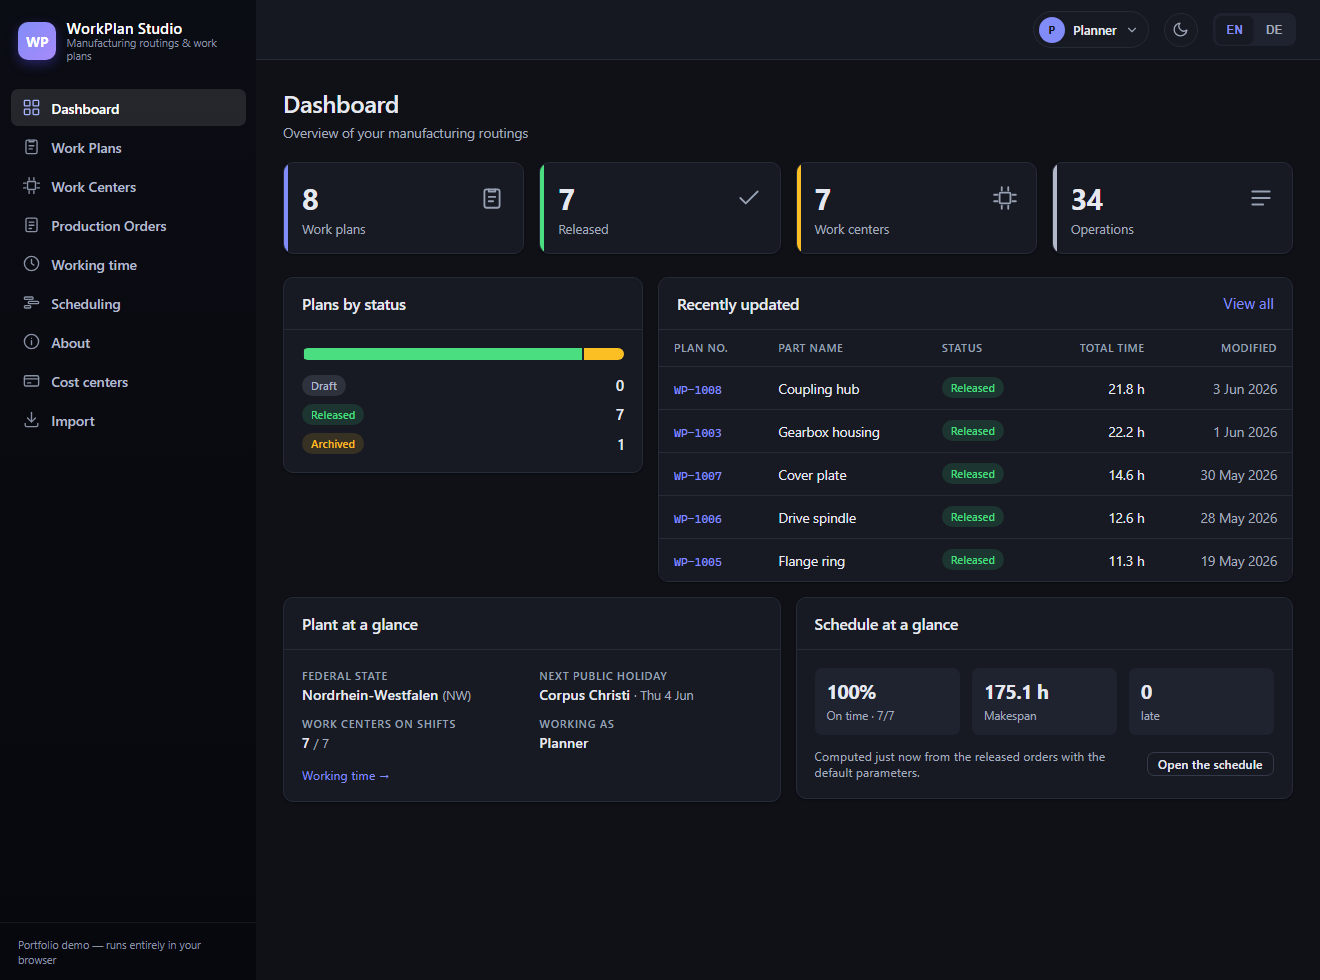
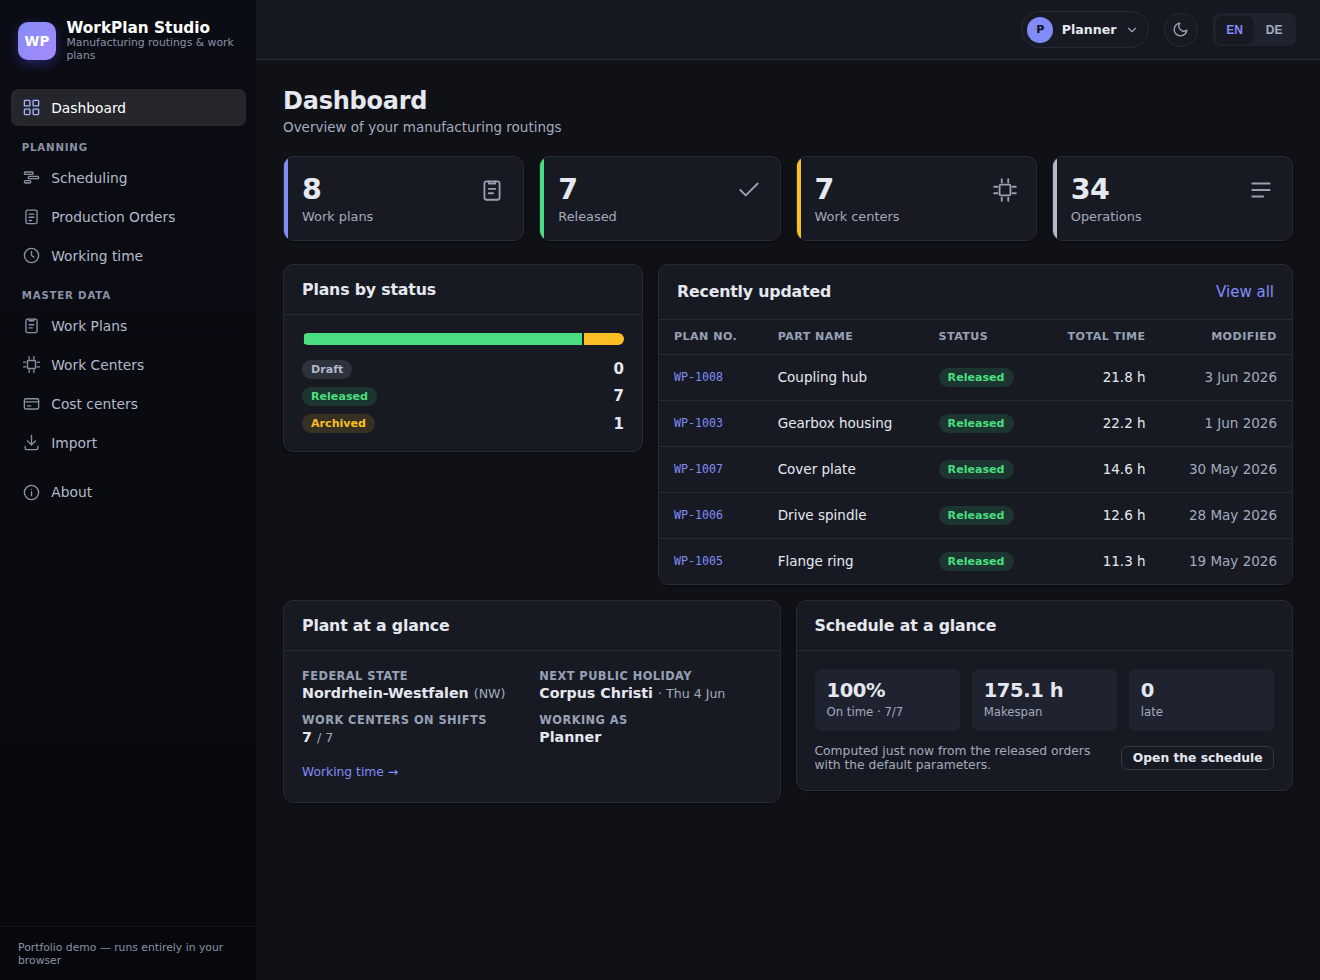
Retake every README screenshot, and capture all of them from now on (#106)
* Capture every screenshot the README shows, not four of them

The capture test produced the schedule pictures only. The dashboard, working
time and both chat pictures still showed the navigation before it was grouped
and the optimality proof as a link-sized button - the README's first images
describing an application that no longer exists. Now the test captures all
nine, and the workflow uploads all nine.

* Retake every README screenshot, and the test counts with them

Captured on Linux by the E2E workflow's capture_doc_images input (run
43996563171): the dashboard in both themes, working time, the schedule dark
and on a phone, the chat in English and German, and the on-time/late pair.
They now show the grouped navigation and the optimality card.

Web suite 1 009 -> 1 011 (EditableAreaWhileAuthorizingTests), measured on
main; 1 807 in all.

---------

diff --git a/tests/WorkPlanStudio.E2E/DocumentationImagesTests.cs b/tests/WorkPlanStudio.E2E/DocumentationImagesTests.cs
@@ -42,7 +42,7 @@ public sealed class DocumentationImagesTests : IClassFixture<PlaywrightFixture>
     private static (int Width, int Height) Desktop => (1320, 980);
     private static (int Width, int Height) Phone => (390, 844);
 
-    private async Task<IPage> OpenAsync((int Width, int Height) viewport, string theme)
+    private async Task<IPage> OpenAsync((int Width, int Height) viewport, string theme, string culture = "en-US")
     {
         var context = await _fixture.Browser.NewContextAsync(new BrowserNewContextOptions
         {
@@ -59,21 +59,53 @@ public sealed class DocumentationImagesTests : IClassFixture<PlaywrightFixture>
         var page = await context.NewPageAsync();
         await page.GotoAsync($"{_fixture.BaseUrl}/");
         await page.EvaluateAsync("t => localStorage.setItem('workplanstudio.settings.theme', t)", theme);
+        await page.EvaluateAsync("c => localStorage.setItem('BlazorCulture', c)", culture);
         return page;
     }
 
-    private static async Task SaveAsync(IPage page, string relativePath)
+    private static string Target(string relativePath)
     {
         var target = Path.Combine(DocsDirectory, relativePath);
         Directory.CreateDirectory(Path.GetDirectoryName(target)!);
-        await page.ScreenshotAsync(new()
+        Xunit.TestContext.Current.SendDiagnosticMessage($"documentation image written: {target}");
+        return target;
+    }
+
+    private static Task SaveAsync(IPage page, string relativePath, bool fullPage = true) =>
+        page.ScreenshotAsync(new()
         {
-            Path = target,
-            FullPage = true,
+            Path = Target(relativePath),
+            FullPage = fullPage,
             Animations = ScreenshotAnimations.Disabled,
             Caret = ScreenshotCaret.Hide
         });
-        Xunit.TestContext.Current.SendDiagnosticMessage($"documentation image written: {target}");
+
+    private static Task SaveAsync(ILocator element, string relativePath) =>
+        element.ScreenshotAsync(new()
+        {
+            Path = Target(relativePath),
+            Animations = ScreenshotAnimations.Disabled,
+            Caret = ScreenshotCaret.Hide
+        });
+
+    /// <summary>Opens a route, waits for the live page to settle, and returns it.</summary>
+    private async Task<IPage> SettledAtAsync((int Width, int Height) viewport, string theme, string route, string culture = "en-US")
+    {
+        var page = await OpenAsync(viewport, theme, culture);
+        await AppReady.GotoAsync(page, $"{_fixture.BaseUrl}{route}");
+        await page.WaitForSelectorAsync(AppReady.ContentSelector, new() { Timeout = AppReady.BootTimeoutMilliseconds });
+        await AppReady.SettledAsync(page);
+        return page;
+    }
+
+    /// <summary>The schedule's assistant card after one suggested question has been answered on the device.</summary>
+    private async Task CaptureChatAsync(string culture, string relativePath)
+    {
+        var page = await SettledAtAsync(Desktop, "light", "/schedule", culture);
+        await page.ClickAsync(".chat-suggestions .chip");
+        await page.WaitForSelectorAsync(".chat-turn.assistant");
+        await AppReady.SettledAsync(page);
+        await SaveAsync(page.Locator(".assistant-card"), relativePath);
     }
 
     [Fact]
@@ -99,6 +131,17 @@ public sealed class DocumentationImagesTests : IClassFixture<PlaywrightFixture>
         await phoneSchedule.GotoAsync();
         await AppReady.SettledAsync(phone);
         await SaveAsync(phone, Path.Combine("images", "schedule-mobile.png"));
+
+        // --- the dashboard, both themes, the first screen a visitor gets ---
+        await SaveAsync(await SettledAtAsync(Desktop, "light", "/"), Path.Combine("images", "dashboard-light.png"), fullPage: false);
+        await SaveAsync(await SettledAtAsync(Desktop, "dark", "/"), Path.Combine("images", "dashboard-dark.png"), fullPage: false);
+
+        // --- working time: the rules, the averaging, the holidays ---
+        await SaveAsync(await SettledAtAsync(Desktop, "light", "/working-time"), Path.Combine("images", "working-time-light.png"));
+
+        // --- the chat, answered on the device, in both languages ---
+        await CaptureChatAsync("en-US", Path.Combine("images", "chat-en.png"));
+        await CaptureChatAsync("de-DE", Path.Combine("images", "chat-de.png"));
 
         // --- the pair the README uses to show one parameter changing everything ---
         //

diff --git a/README.de.md b/README.de.md
@@ -185,7 +185,7 @@ Die Kopfleiste lässt Sie **Planer** (alles), **Meister** (Aufträge freigeben u
 
 ## Entwicklungspraxis — gemessen, nicht behauptet
 
-- **1 805 Unit- und Integrationstests in fünf Projekten, dazu 102 Browsertests**: Unit, eigenschaftsbasiert (CsCheck), bewiesene Optimalität gegen einen unabhängigen Löser, Architektur, Leistungsbudgets, Datentests mit echtem SQLite samt Schemaaufwertung, Berechtigungen als per Reflexion ermittelte geschlossene Menge, bUnit-Komponenten, Anbieter-Clients gegen einen feindlichen Stub-Transport, HTTP-Integrationstests gegen das Backend, Byte-Tests der PDF- und xlsx-Writer, Playwright-Abläufe in beiden Sprachen, **null axe-Verstöße auf jeder Route in hell, dunkel und auf Deutsch** (der WCAG-2.x-A/AA-Regelsatz, also etwa ein Drittel des Standards) und **Bildvergleich** gegen Pixel-Baselines. [docs/TESTING.de.md](docs/TESTING.de.md).
+- **1 807 Unit- und Integrationstests in fünf Projekten, dazu 102 Browsertests**: Unit, eigenschaftsbasiert (CsCheck), bewiesene Optimalität gegen einen unabhängigen Löser, Architektur, Leistungsbudgets, Datentests mit echtem SQLite samt Schemaaufwertung, Berechtigungen als per Reflexion ermittelte geschlossene Menge, bUnit-Komponenten, Anbieter-Clients gegen einen feindlichen Stub-Transport, HTTP-Integrationstests gegen das Backend, Byte-Tests der PDF- und xlsx-Writer, Playwright-Abläufe in beiden Sprachen, **null axe-Verstöße auf jeder Route in hell, dunkel und auf Deutsch** (der WCAG-2.x-A/AA-Regelsatz, also etwa ein Drittel des Standards) und **Bildvergleich** gegen Pixel-Baselines. [docs/TESTING.de.md](docs/TESTING.de.md).
 - **Abdeckung je Assembly in der CI abgesichert, und die Schwelle selbst ebenso** — der Build scheitert, wenn eine Assembly unter ihre Schwelle fällt, und ebenso, wenn die Abdeckung **mehr als drei Punkte darüber** steigt: eine Schwelle, der die Abdeckung davongelaufen ist, verteidigt nichts mehr und wird nie rot dabei. Die Schwellen stehen an genau einer Stelle, in den `GATE_*`-Variablen von [`ci.yml`](.github/workflows/ci.yml), und liegen ein bis zwei Punkte unter dem Gemessenen. **Was gemessen wurde, steht auf den Badges oben**, erzeugt bei jeder Auslieferung aus demselben Lauf — sie *sind* die Zahl und nicht eine Kopie davon. Dieser Punkt trug die sechs Werte früher von Hand; als die Drift-Prüfung entstand, waren zwei davon drei Punkte hinter der Abdeckung zurück, die sie bewachen sollten.
 - **Auslieferung erst nach allem** — die Testmatrix mit ihren Abdeckungsschwellen *und* die Browser-Suite müssen bestehen, bevor GitHub Pages aktualisiert wird, und der Job, der fremden Testcode ausführt, hält keine Auslieferungsrechte.
 - **Leistung gemessen, auch dort, wo es unschmeichelhaft ist** — BenchmarkDotNet über die Bibliotheken, Stolperdrähte auf die Uhr und Lighthouse CI auf der veröffentlichten Seite, die den Seitenaufbau mit **36 / 100** bewertete, bis der erste Bildschirm beim Build gerendert wurde, und jetzt auf jeder gemessenen Seite **70** vergibt, Barrierefreiheit, Best Practices und SEO 100. Alles, samt der Maschine, auf der es gemessen wurde, steht in [docs/PERFORMANCE.de.md](docs/PERFORMANCE.de.md).

diff --git a/docs/TESTING.de.md b/docs/TESTING.de.md
@@ -33,12 +33,12 @@ Die Zahlen wurden auf diesem Stand durch Ausführen jeder Suite gemessen; siehe
 | --- | --- | --: | --- | :---: | --- |
 | Engine: Unit, Property, Optimalität, exakter Löser, Architektur, Budgets | `tests/WorkPlanStudio.Scheduling.Tests` | **294** | Determinismus, Zulässigkeit, Regeln, Kalender und Sperrzeiten, Eingabeprüfung, allokationsfreie Bewertung, die Optimalitätsstudie über zwanzig Instanzen, das LP-Modell, ein abhängigkeitsfreier Kern | nein | ~5 s |
 | Arbeitszeit: Unit, Property, Architektur, Budgets | `tests/WorkPlanStudio.WorkingTime.Tests` | **255** | Feiertage aller 16 Länder über 1990–2200, Schichtmodelle, jede ArbZG-Vorschrift mit ihrem Parameter, die Ausgleichszeiträume, beide Zeitumstellungen, die Invarianten des Zeitleistenbauers | nein | ~1 s |
-| Daten, Mapping, Berechtigungen, Import, Komponenten, Assistent, Fernzugriff | `tests/WorkPlanStudio.Web.Tests` | **1 009** | echte SQLite-Bedingungen und Schemaaufwertungen, das Alles-oder-nichts-Mapping, die Rollenrichtlinien als geschlossene Menge, das Versprechen des Imports (Vorschau = Übernahme), lokalisierte Komponentenzustände, der zerlegte Lauf, der Optimalitätsbeweis, der Chat gegen feindliche Antworten | ja¹ | ~5 s |
+| Daten, Mapping, Berechtigungen, Import, Komponenten, Assistent, Fernzugriff | `tests/WorkPlanStudio.Web.Tests` | **1 011** | echte SQLite-Bedingungen und Schemaaufwertungen, das Alles-oder-nichts-Mapping, die Rollenrichtlinien als geschlossene Menge, das Versprechen des Imports (Vorschau = Übernahme), lokalisierte Komponentenzustände, der zerlegte Lauf, der Optimalitätsbeweis, der Chat gegen feindliche Antworten | ja¹ | ~5 s |
 | Backend: HTTP-Integration gegen eine echte SQLite-Datei | `tests/WorkPlanStudio.Api.Tests` | **93** | Anmeldung, Kontosperre, Ratenbegrenzung, Rotation und Wiederverwendungserkennung der Refresh-Tokens, 401/403 je Route, Concurrency-Stempel — und dass der Server den Plan erzeugt, den auch der Browser erzeugt hätte | nein | ~3 s |
 | Export-Writer: CSV, xlsx, PDF | `tests/WorkPlanStudio.Export.Tests` | **154** | die Bytes, zurückgelesen: Formel-Injektion, Maskierung, die Teile der Arbeitsmappe, die Objekttabelle des PDF, die Datumsregeln beider Sprachen | nein | <1 s |
 | End-to-End, Barrierefreiheit, Bildvergleich | `tests/WorkPlanStudio.E2E` | **102** | echtes Chromium: Planänderungen, Determinismus, Sprache, Arbeitszeit im Gantt, Fertigungsaufträge von Anfang bis Ende, Speicherwiederherstellung, Rollen, Farbschema, Tastatur, Mobilgerät, der Chat in beiden Sprachen; axe WCAG 2.2 AA auf jeder Route in hell, dunkel und auf Deutsch; neun Bildschirm-Baselines | Browser² | ~75 s |
 
-**1 805 Unit- und Integrationstests, dazu 102 Browsertests.** Zehn der Browsertests
+**1 807 Unit- und Integrationstests, dazu 102 Browsertests.** Zehn der Browsertests
 sind die Pixelvergleiche, und sie werden außerhalb von Linux mit einer Begründung
 *übersprungen*, die [ADR 0021](adr/0021-visual-baselines-linux-only.md) nennt, statt
 gegen eine Baseline zu vergleichen, die niemand erzeugt hat.

diff --git a/README.md b/README.md
@@ -185,7 +185,7 @@ The top bar lets you be the **Planner** (everything), the **Supervisor** (releas
 
 ## Engineering practices — measured, not asserted
 
-- **1 805 unit and integration tests across five projects, plus 102 browser tests**: unit, property-based (CsCheck), proved optimality against an independent solver, architecture, performance budgets, real-SQLite data and schema-upgrade tests, authorization as a reflection-discovered closed set, bUnit components, provider clients against a hostile stubbed transport, HTTP integration tests against the backend, byte-level tests of the PDF and xlsx writers, Playwright flows in both languages, **zero axe violations on every route in light, dark and German** (the WCAG 2.x A/AA tag set, which is about a third of the standard), and **visual regression** against pixel baselines. [docs/TESTING.md](docs/TESTING.md).
+- **1 807 unit and integration tests across five projects, plus 102 browser tests**: unit, property-based (CsCheck), proved optimality against an independent solver, architecture, performance budgets, real-SQLite data and schema-upgrade tests, authorization as a reflection-discovered closed set, bUnit components, provider clients against a hostile stubbed transport, HTTP integration tests against the backend, byte-level tests of the PDF and xlsx writers, Playwright flows in both languages, **zero axe violations on every route in light, dark and German** (the WCAG 2.x A/AA tag set, which is about a third of the standard), and **visual regression** against pixel baselines. [docs/TESTING.md](docs/TESTING.md).
 - **Coverage gated per assembly in CI, and the gate is gated too** — the build fails when an assembly falls below its threshold, and also when coverage climbs **more than three points above** it, because a threshold coverage has outgrown defends nothing and stops being a gate without ever going red. The thresholds live in one place, the `GATE_*` variables in [`ci.yml`](.github/workflows/ci.yml), and each sits one to two points under what is measured. **What is measured is on the badges above**, written by the same CI run on every deployment — they are the number, rather than a copy of it that drifts. This bullet used to carry the six thresholds by hand; by the time the drift check was written, two of them had fallen three points behind the coverage they were guarding.
 - **Deploy gated on everything** — the test matrix with its coverage gates *and* the browser suite must pass before GitHub Pages is updated, and the job that executes third-party test code holds no deployment credentials.
 - **Performance measured, including the unflattering parts** — BenchmarkDotNet over the libraries, wall-clock tripwires, and Lighthouse CI on the published site, which scored the page load **36 / 100** until the first paint was rendered at build time and now scores **70** on every measured page, with 100 for accessibility, best practices and SEO. All of it, with the machine it was measured on, is in [docs/PERFORMANCE.md](docs/PERFORMANCE.md).

diff --git a/docs/TESTING.md b/docs/TESTING.md
@@ -31,12 +31,12 @@ Counts measured on this tip by running each suite; see *Running the tests* below
 | --- | --- | --: | --- | :---: | --- |
 | Engine: unit, property, optimality, exact solver, architecture, budget | `tests/WorkPlanStudio.Scheduling.Tests` | **294** | determinism, feasibility, rules, calendars and blackouts, input validation, zero-allocation scoring, the twenty-instance optimality study, the LP model, a dependency-free core | no | ~5 s |
 | Working time: unit, property, architecture, budget | `tests/WorkPlanStudio.WorkingTime.Tests` | **255** | holidays for all 16 states across 1990–2200, shift patterns, every ArbZG rule with its parameter, the averaging windows, both daylight-saving transitions, the timeline builder's invariants | no | ~1 s |
-| Data, mapper, authorization, import, components, assistant, remote | `tests/WorkPlanStudio.Web.Tests` | **1 009** | real SQLite constraints and schema upgrades, the all-or-nothing mapper, the persona policies as a closed set, the CSV import's preview-equals-commit promise, localized component states, the sliced run, the optimality proof, the chat against hostile responses | yes¹ | ~5 s |
+| Data, mapper, authorization, import, components, assistant, remote | `tests/WorkPlanStudio.Web.Tests` | **1 011** | real SQLite constraints and schema upgrades, the all-or-nothing mapper, the persona policies as a closed set, the CSV import's preview-equals-commit promise, localized component states, the sliced run, the optimality proof, the chat against hostile responses | yes¹ | ~5 s |
 | Backend: HTTP integration against a real SQLite file | `tests/WorkPlanStudio.Api.Tests` | **93** | login, lockout, rate limiting, refresh-token rotation and reuse detection, 401/403 per route, concurrency stamps, and that the server produces the schedule the browser would have | no | ~3 s |
 | Export writers: CSV, xlsx, PDF | `tests/WorkPlanStudio.Export.Tests` | **154** | the bytes, read back: formula injection, quoting, the workbook's parts, the PDF's object table, both cultures' date rules | no | <1 s |
 | End-to-end, accessibility, visual regression | `tests/WorkPlanStudio.E2E` | **102** | real Chromium: schedule changes, determinism, language, working time on the Gantt, production orders end to end, storage recovery, personas, theme, keyboard, mobile, the chat in both languages; axe WCAG 2.2 AA on every route in light, dark and German; nine screen baselines | browser² | ~75 s |
 
-**1 805 unit and integration tests, plus 102 browser tests.** Ten of the browser
+**1 807 unit and integration tests, plus 102 browser tests.** Ten of the browser
 tests are the pixel comparisons, and they *skip* off Linux with a reason naming
 [ADR 0021](adr/0021-visual-baselines-linux-only.md) rather than comparing against
 a baseline nothing produced.
